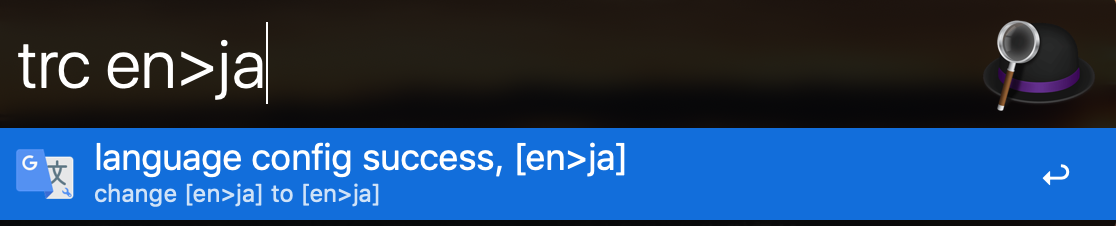
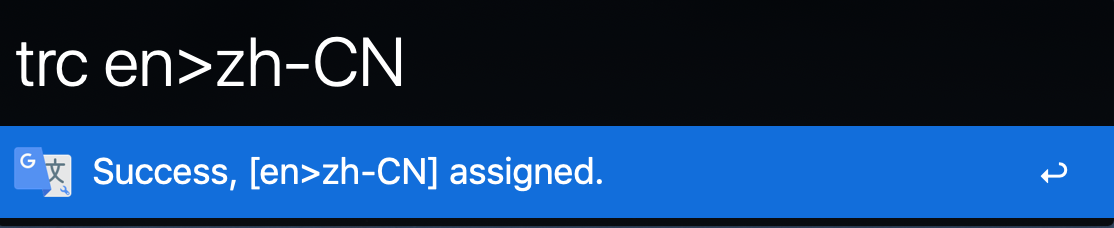
update RAEDME

diff --git a/README.md b/README.md
@@ -7,7 +7,7 @@
 *Requires [Node.js](https://nodejs.org) 4+ and the Alfred [Powerpack](https://www.alfredapp.com/powerpack/).*
 
 - install with `npm install -g alfred-language-configuration`
-- or [download](https://github.com/xfslove/alfred-language-configuration/releases/tag/v1.0.1) workflow
+- or [download](https://github.com/xfslove/alfred-language-configuration/releases/tag/v1.0.2) workflow
 
 ## [Changelog](https://github.com/xfslove/alfred-language-configuration/releases)
 
@@ -15,13 +15,20 @@
 
 Alfred workflow Keyword `trc`.
 
-configuration format: `source language keyword>target language keyword`, and language key word see the [Supported Language List](#supported-language-list).
+- Assign the source and target language with '>': `source language keyword>target language keyword`.
+- Assign the language pair with '&': `first one language keyword&the second language keyword` .
+- You can using the `trc ls` get the current configuration.
+-  Language key word see the [Supported Language List](#supported-language-list).
 
-eg: `trc en>ja` means translate iuput from english to japanese.
+eg: `trc en>zh-CN` means translate iuput from English to Chinese. `trc en&zh-CN` means let the translate workflow detect the input to dicide the source and target languages, `tr hello` will get the Chinese translations, `tr 你好` will get the English translations.
 
 ## Snapshot
 
+![config2.png](media/config2.png)
+
 ![config.png](media/config.png)
+
+![ls.png](media/ls.png)
 
 ## Supported Language List
 
